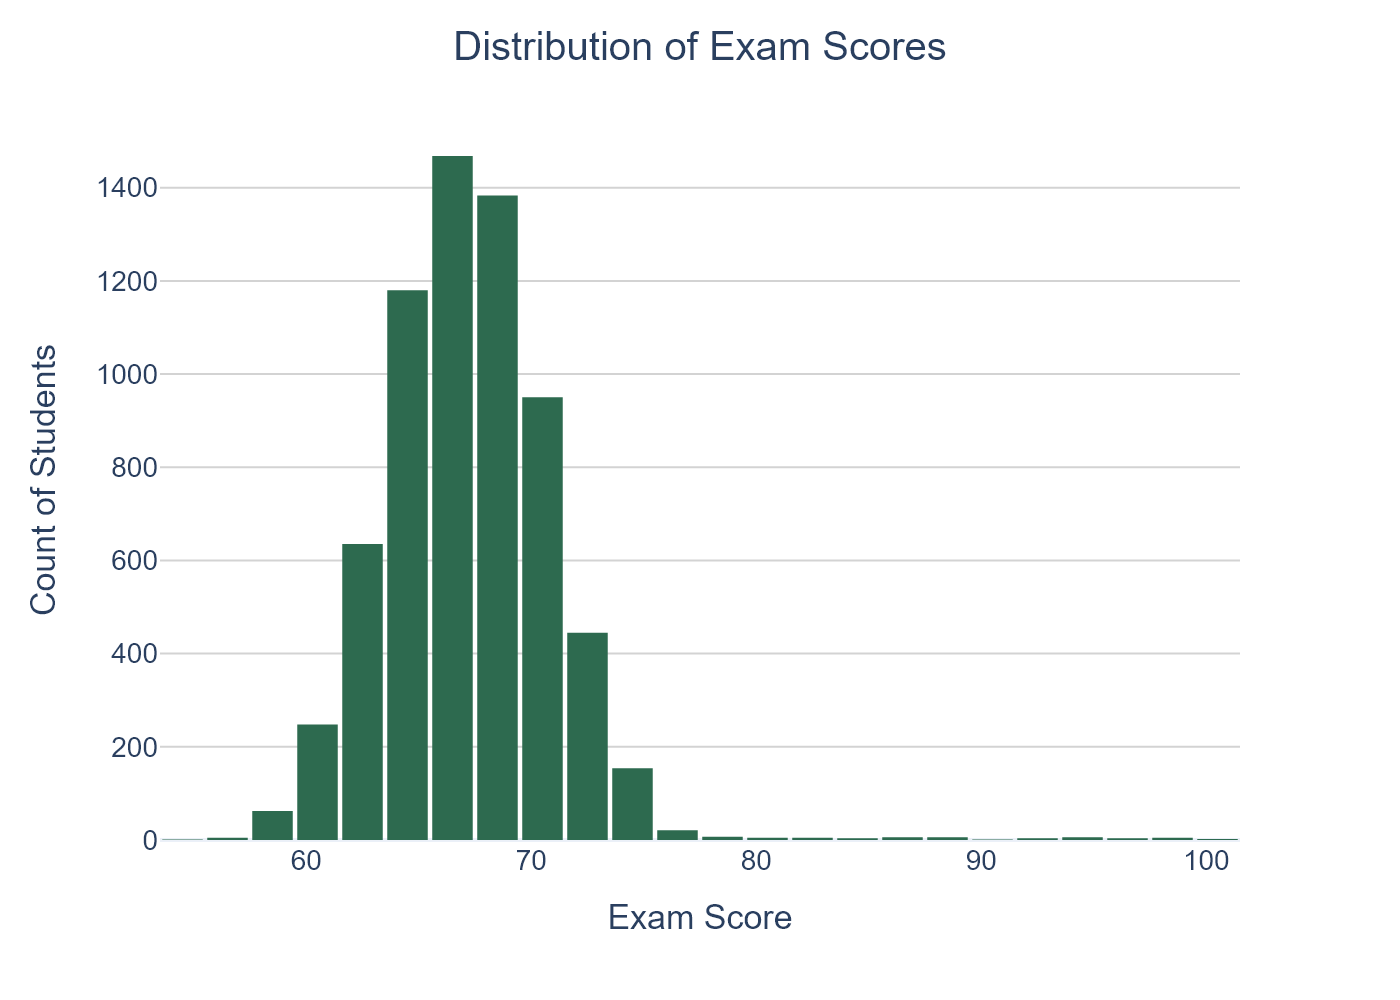
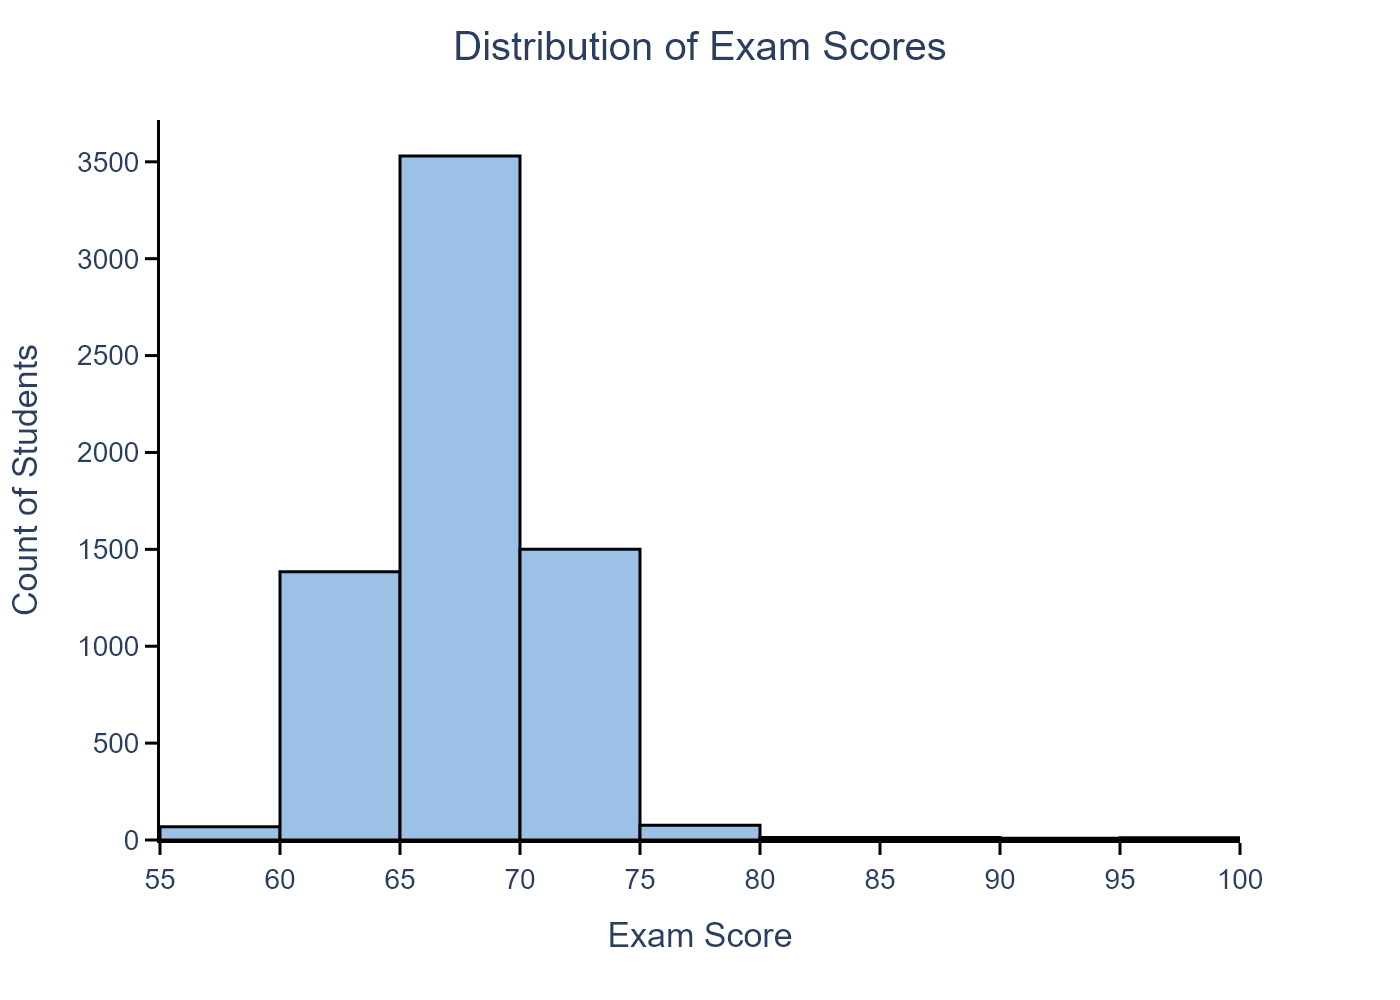
Update

diff --git a/scripts/2_2_basic_visualizations.py b/scripts/2_2_basic_visualizations.py
@@ -31,18 +31,62 @@ def polish_layout(fig, title_text, x_title=None, y_title=None, y_range=None):
 # =============================================================================
 # 1. HISTOGRAMS — Pure-count distributions of key numeric inputs
 # Titles: direct business labels, NO chart-type prefix
+# Core Rules: 5-20 non-overlapping bins, equal bin width=(Max-Min)/Bins, span full range.
 # =============================================================================
-fig1 = px.histogram(df, x="Exam_Score", nbins=30, color_discrete_sequence=["#2D6A4F"])
-fig1 = polish_layout(fig1, "Distribution of Exam Scores", "Exam Score", "Count of Students")
+def create_strict_histogram(df, col, title, x_label, color, num_bins, override_min=None, override_max=None):
+    col_min = override_min if override_min is not None else df[col].min()
+    col_max = override_max if override_max is not None else df[col].max()
+    bin_width = (col_max - col_min) / num_bins
+    
+    fig = px.histogram(df, x=col, color_discrete_sequence=[color])
+    # Enforce strict bins spanning exact range with equal width, matching image aesthetic
+    fig.update_traces(
+        xbins=dict(start=col_min, end=col_max, size=bin_width),
+        marker_line_color='black',
+        marker_line_width=1.5
+    )
+    
+    fig.update_layout(
+        title=dict(text=title, x=0.5, xanchor='center'),
+        template="plotly_white",
+        font=dict(family="Arial", size=14),
+        bargap=0,
+        showlegend=False
+    )
+    
+    fig.update_xaxes(
+        title_text=x_label,
+        showgrid=False,
+        showline=True, linewidth=1.5, linecolor='black', # Add black bottom line
+        ticks='outside', tickwidth=1.5, tickcolor='black', ticklen=6,
+        tickmode='linear', tick0=col_min, dtick=bin_width
+    )
+    
+    fig.update_yaxes(
+        title_text="Count of Students",
+        showgrid=False, # Removed gridline to mimic reference image
+        showline=True, linewidth=1.5, linecolor='black', # Add black left line
+        ticks='outside', tickwidth=1.5, tickcolor='black', ticklen=6,
+        rangemode='tozero'
+    )
+    
+    return fig
+
+# 1. Exam_Score: range 55-100. Using 50-100 (span 50), 10 bins (width=5.0)
+fig1 = create_strict_histogram(df, "Exam_Score", "Distribution of Exam Scores", "Exam Score", "#9BC2E6", 10, 50, 100)
 fig1.write_image(os.path.join(plots_dir, "histograms", "Histogram_Exam_Score.png"), scale=2)
 
-fig2 = px.histogram(df, x="Attendance", nbins=20, color_discrete_sequence=["#40916C"])
-fig2 = polish_layout(fig2, "Distribution of Class Attendance (%)", "Attendance Percentage", "Count of Students")
+# 2. Attendance: range 60-100. Using 60-100 (span 40), 8 bins (width=5.0)
+fig2 = create_strict_histogram(df, "Attendance", "Distribution of Class Attendance (%)", "Attendance Percentage", "#9BC2E6", 8, 60, 100)
 fig2.write_image(os.path.join(plots_dir, "histograms", "Histogram_Attendance.png"), scale=2)
 
-fig3 = px.histogram(df, x="Previous_Scores", nbins=30, color_discrete_sequence=["#52B788"])
-fig3 = polish_layout(fig3, "Distribution of Previous Scores", "Previous Score", "Count of Students")
+# 3. Previous_Scores: range 50-100. Using 50-100 (span 50), 10 bins (width=5.0)
+fig3 = create_strict_histogram(df, "Previous_Scores", "Distribution of Previous Scores", "Previous Score", "#9BC2E6", 10, 50, 100)
 fig3.write_image(os.path.join(plots_dir, "histograms", "Histogram_Previous_Scores.png"), scale=2)
+
+# 4. Hours_Studied: range 1-44. Using 0-45 (span 45), 9 bins (width=5.0)
+fig4 = create_strict_histogram(df, "Hours_Studied", "Distribution of Weekly Study Hours", "Hours Studied", "#9BC2E6", 9, 0, 45)
+fig4.write_image(os.path.join(plots_dir, "histograms", "Histogram_Hours_Studied.png"), scale=2)
 
 
 # =============================================================================

diff --git a/docs/Step_2.2_Basic_Visualizations_Report.md b/docs/Step_2.2_Basic_Visualizations_Report.md
@@ -68,6 +68,27 @@
 
 ---
 
+**Caption:** Histogram illustrating the distribution of Weekly Study Hours across the student population.
+*(Insert `plots/histograms/Histogram_Hours_Studied.png`)*
+
+**Key Data:**
+| Statistic | Value |
+|---|---|
+| Sample size (n) | 6,607 |
+| Mean | 19.98 |
+| Median | 20.0 |
+| Std Dev | 5.99 |
+| Min | 1 |
+| Q1 | 16 |
+| Q3 | 24 |
+| Max | 44 |
+
+**English Insight:** The `Hours_Studied` distribution approximates a natural bell curve centered perfectly around 20 hours (mean=19.98, median=20.0). The visible left and right tails spread relatively evenly, capturing the minority of students who study either exceptionally little (near 0) or an intense amount (upwards of 40 hours). The integer binning (width=5) clearly highlights the concentration in the 15–25 hours central range.
+
+**中文洞察:** `Hours_Studied` (每周学习时长) 的分布呈现出极其标准的钟形曲线，完美对称地以 20 小时为中心点（均值19.98，中位数20.0）。可见的左右尾部均匀散开，捕捉到了极少数几乎不学习（接近0小时）或学习强度极大（高达40小时以上）的极端学生群体。取整的分箱（距宽=5）清晰地突显了绝大多数学生集中在 15-25 小时的中间地带。
+
+---
+
 ## 2. Violin & Box Plots: Categorical Drivers of Exam Score
 
 > All violin/box plots use `box=True` and `points="outliers"`. Y-axis represents Exam Score (range 55–100). Ordinal categories are sorted High → Medium → Low; binary categories sorted by logical convention (Yes→No, No→Yes as appropriate).
